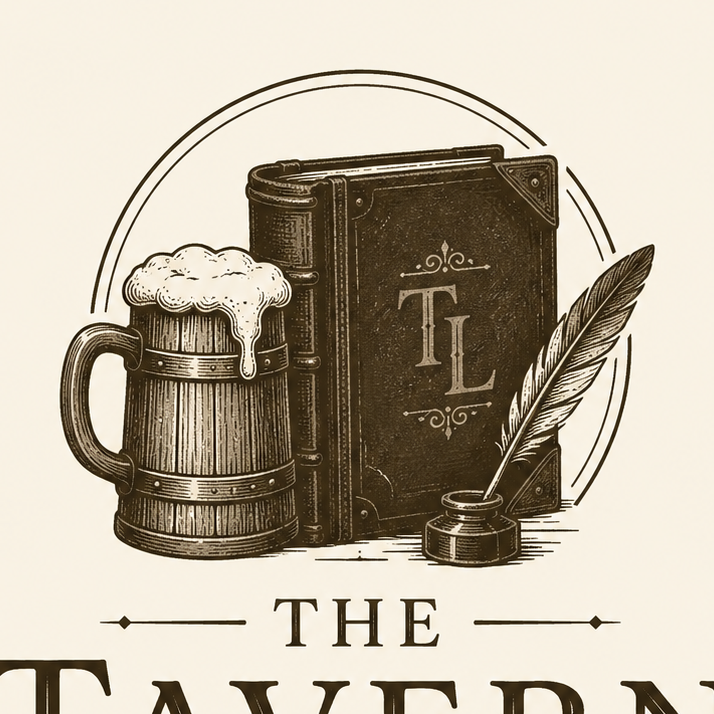
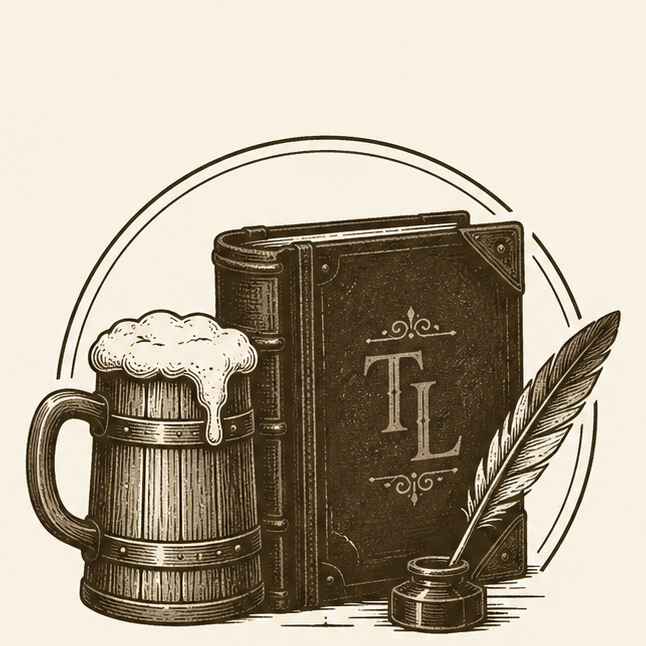
Add files via upload

diff --git a/js/app.js b/js/app.js
@@ -7,7 +7,7 @@
 // one is for a human to glance at, that one is for the browser's cache), so
 // nothing keeps them in sync automatically. Bumping this is now part of the
 // same routine as bumping the cache version.
-const APP_VERSION = 'v43';
+const APP_VERSION = 'v44';
 
 const viewEl = document.getElementById('view');
 const headerTitle = document.getElementById('header-title');

diff --git a/sw.js b/sw.js
@@ -1,4 +1,4 @@
-const CACHE_NAME = 'tavern-ledger-v43';
+const CACHE_NAME = 'tavern-ledger-v44';
 const CORE_ASSETS = [
   './',
   './index.html',